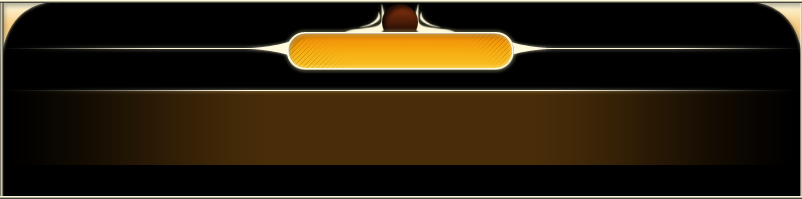
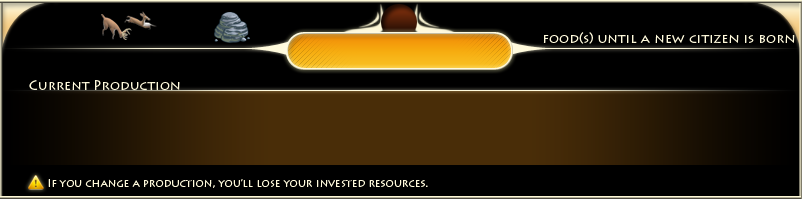
no more blurry image, all resources

diff --git a/Civilization/CivilizationWPF/GameWindow.xaml b/Civilization/CivilizationWPF/GameWindow.xaml
@@ -3,7 +3,7 @@
         xmlns:x="http://schemas.microsoft.com/winfx/2006/xaml"
         xmlns:local="clr-namespace:CivilizationWPF"
         xmlns:implementation="clr-namespace:Implementation;assembly=CivilizationLib"
-        Title="Civilization" Width="1024" Height="768" ResizeMode="NoResize">
+        Title="Civilization" Width="1008" Height="757" ResizeMode="NoResize">
     <Window.Resources>
         <Style x:Key="menu" TargetType="Button" BasedOn="{StaticResource {x:Static ToolBar.ButtonStyleKey}}">
             <Setter Property="Background" Value="{x:Null}"/>
@@ -89,25 +89,19 @@
             </Grid.ColumnDefinitions>
             <Grid.Background>
                 <ImageBrush ImageSource="./Resource/interface/top.png"/>
-            </Grid.Background>
-            <TextBlock Name="intro_turn" Grid.Column="0" Text="It's your turn," FontFamily="Lithos Pro" Foreground="#fffef8d7" FontSize="14" VerticalAlignment="Center" Margin="5,0,0,0"/>
-            <TextBlock Name="nameView" Grid.Column="1" Text="{Binding Path=Name}" FontFamily="Lithos Pro" Foreground="{Binding Path=Color}" FontSize="14" VerticalAlignment="Center" Margin="5,0,0,0"/>
-            <Image Grid.Column="2" Source="./Resource/interface/icons/civ.png" Height="16" Width="16"></Image>
-            <TextBlock Name="civilization" Grid.Column="3" Text="{Binding Path=Civilization}" FontFamily="Lithos Pro" Foreground="#fffef8d7" FontSize="14" VerticalAlignment="Center" Margin="5,0,0,0"/>
-            <Image Grid.Column="4" Source="./Resource/interface/icons/city.png" Height="24" Width="24"></Image>
-            <TextBlock Name="city_number" Grid.Column="5" Text="{Binding Path=CityNumber}" FontFamily="Lithos Pro" Foreground="#fffef8d7" FontSize="14" VerticalAlignment="Center" Margin="5,0,0,0"/>
-            <Image Grid.Column="6" Source="./Resource/interface/icons/teacher.png" Height="24" Width="24"></Image>
-            <TextBlock Name="teacher_number" Grid.Column="7" Text="{Binding Path=TeacherNumber}" FontFamily="Lithos Pro" Foreground="#fffef8d7" FontSize="14" VerticalAlignment="Center" Margin="5,0,0,0"/>
-            <Image Grid.Column="8" Source="./Resource/interface/icons/student.png" Height="24" Width="24"></Image>
-            <TextBlock Name="student_number" Grid.Column="9" Text="{Binding Path=StudentNumber}" FontFamily="Lithos Pro" Foreground="#fffef8d7" FontSize="14" VerticalAlignment="Center" Margin="5,0,0,0"/>
+            </Grid.Background> 
+            <TextBlock Grid.Column="1" Text="{Binding Path=Name}" FontFamily="Lithos Pro" Foreground="{Binding Path=Color}" FontSize="14" VerticalAlignment="Center" Margin="5,0,0,0"/>
+            <TextBlock Grid.Column="3" Text="{Binding Path=Civilization}" FontFamily="Lithos Pro" Foreground="#fffef8d7" FontSize="14" VerticalAlignment="Center" Margin="5,0,0,0"/>
+            <TextBlock Grid.Column="5" Text="{Binding Path=CityNumber}" FontFamily="Lithos Pro" Foreground="#fffef8d7" FontSize="14" VerticalAlignment="Center" Margin="5,0,0,0"/>
+            <TextBlock Grid.Column="7" Text="{Binding Path=TeacherNumber}" FontFamily="Lithos Pro" Foreground="#fffef8d7" FontSize="14" VerticalAlignment="Center" Margin="5,0,0,0"/>
+            <TextBlock Grid.Column="9" Text="{Binding Path=StudentNumber}" FontFamily="Lithos Pro" Foreground="#fffef8d7" FontSize="14" VerticalAlignment="Center" Margin="5,0,0,0"/>
             <Image Grid.Column="10" Source="{Binding Path=BossStatus}" Height="24" Width="24"></Image>
-            <TextBlock Grid.Column="12" Text="Turn" FontFamily="Lithos Pro" Foreground="#fffef8d7" FontSize="14" VerticalAlignment="Center"/>
             <TextBlock Name="turnsView" Grid.Column="13" Text="{Binding Path=Turns}" FontFamily="Lithos Pro" Foreground="#fffef8d7" FontSize="14" VerticalAlignment="Center"/>
             <Button Grid.Column="14" Click="endTurn" Content="End Turn" Style="{StaticResource menu}"/>
             <Button Grid.Column="15" Click="endGame" Content="Exit" Style="{StaticResource menu}"/>
         </Grid>
 
-        <Grid Grid.Row="2" Grid.Column="1" Name="field" Visibility="Visible">
+        <Grid Grid.Row="2" Grid.Column="1" Name="field" Visibility="Hidden">
             <Grid.Background>
                 <ImageBrush ImageSource="./Resource/interface/bottomRight/bottomField.png" TileMode="Tile" Stretch="None" Viewport="0,0,802,199" ViewportUnits="Absolute" AlignmentX="Left" AlignmentY="Top" ViewboxUnits="RelativeToBoundingBox"></ImageBrush>
             </Grid.Background>
@@ -132,7 +126,9 @@
                 <ColumnDefinition Width="127*" />
                 <ColumnDefinition Width="85*" />
             </Grid.ColumnDefinitions>
-            
+            <Grid.Background>
+                <ImageBrush ImageSource="./Resource/interface/bottomRight/bottomUnit.png" TileMode="Tile" Stretch="None" Viewport="0,0,802,199" ViewportUnits="Absolute" AlignmentX="Left" AlignmentY="Top" ViewboxUnits="RelativeToBoundingBox"></ImageBrush>
+            </Grid.Background>
             <TextBlock Text="{Binding Path=UnitType}" FontFamily="Lithos Pro" Foreground="#ff541c04" FontSize="20" VerticalAlignment="Center" HorizontalAlignment="Center" Grid.Column="4" Margin="146,36,133,30" Grid.RowSpan="2" />
             <TextBlock Text="{Binding Path=MovePoints}" Grid.Column="2" FontFamily="Lithos Pro" Foreground="#fffef9dc" FontSize="18" VerticalAlignment="Bottom" HorizontalAlignment="Right" Margin="0,0,0,11"/>
             <TextBlock Text="{Binding Path=HP}" Grid.Column="0" FontFamily="Lithos Pro" Foreground="#fffef9dc" FontSize="18" VerticalAlignment="Bottom" HorizontalAlignment="Right" Margin="0,0,4,13"/>
@@ -143,7 +139,7 @@
             <ToggleButton Name="attackAction" Content="Attack" FontFamily="Lithos Pro" FontSize="14" Foreground="#fffef9dc" Margin="231,25,4,58" Grid.Column="4" Grid.Row="2" Style="{StaticResource OnOffToggleImageStyle}" Height="26" Width="102"/>
         </Grid>
 
-        <Grid Grid.Row="2" Grid.Column="1" Name="city" Visibility="Hidden">
+        <Grid Grid.Row="2" Grid.Column="1" Name="city" Visibility="Visible">
             <Grid.RowDefinitions>
                 <RowDefinition Height="48*" />
                 <RowDefinition Height="42*" />
@@ -154,27 +150,23 @@
                 <ColumnDefinition Width="36*" />
                 <ColumnDefinition Width="84*" />
                 <ColumnDefinition Width="40*" />
-                <ColumnDefinition Width="279*" />
-                <ColumnDefinition Width="21*" />
+                <ColumnDefinition Width="273*" />
+                <ColumnDefinition Width="27*" />
                 <ColumnDefinition Width="249*" />
             </Grid.ColumnDefinitions>
             <Grid.Background>
                 <ImageBrush ImageSource="./Resource/interface/bottomRight/bottomCity.png" TileMode="Tile" Stretch="None" Viewport="0,0,802,199" ViewportUnits="Absolute" AlignmentX="Left" AlignmentY="Top" ViewboxUnits="RelativeToBoundingBox"></ImageBrush>
             </Grid.Background>
-            <TextBlock Text="food(s) until a new citizen is born" FontFamily="Lithos Pro" Foreground="#fffef9dc" FontSize="12" Grid.Column="6" VerticalAlignment="Bottom" HorizontalAlignment="Left" Margin="0,0,0,3" />
-            <TextBlock Text="{Binding Path=NeededFood}" FontFamily="Lithos Pro" Foreground="#fffef9dc" FontSize="20" Grid.Column="5" VerticalAlignment="Bottom" HorizontalAlignment="Center"/>
+            <TextBlock Text="{Binding Path=NeededFood}" FontFamily="Lithos Pro" Foreground="#fffef9dc" FontSize="20" Grid.Column="5" VerticalAlignment="Bottom" HorizontalAlignment="Center" Margin="0,0,12,0" />
             <TextBlock Text="{Binding Path=Population}" FontFamily="Lithos Pro" Foreground="#fffef9dc" FontSize="18" Grid.Column="4" Margin="133,9,120,18" VerticalAlignment="Center" HorizontalAlignment="Center"/>
             <TextBlock Text="{Binding Path=Name}" FontFamily="Lithos Pro" Foreground="#ff541c04" FontSize="20" Grid.Column="4" Margin="147,38,132,28" Grid.RowSpan="2" VerticalAlignment="Center" HorizontalAlignment="Center"/>
-            <Image Source="./Resource/interface/icons/food.png" Height="32" Width="32" VerticalAlignment="Bottom" HorizontalAlignment="Right" Margin="0,0,0,4" Grid.Column="1"></Image>
-            <TextBlock Text="{Binding Path=Food}" Grid.Column="0" FontFamily="Lithos Pro" Foreground="#fffef9dc" FontSize="18" VerticalAlignment="Bottom" HorizontalAlignment="Right" Margin="0,0,0,5"></TextBlock>
-            <Image Source="./Resource/interface/icons/iron.png" Height="38" Width="38" VerticalAlignment="Bottom" HorizontalAlignment="Right" Grid.Column="3"></Image>
-            <TextBlock Text="{Binding Path=Iron}" Grid.Column="2" FontFamily="Lithos Pro" Foreground="#fffef9dc" FontSize="18" VerticalAlignment="Bottom" HorizontalAlignment="Right" Margin="0,0,0,5"></TextBlock>
-            <TextBlock Text="Current Production" FontFamily="Lithos Pro" Foreground="#fffef9dc" FontSize="12" Grid.Row="1" Grid.ColumnSpan="3" VerticalAlignment="Bottom" HorizontalAlignment="Left" Margin="42,0,0,106" Grid.RowSpan="2"/>
+            <TextBlock Text="{Binding Path=Food}" FontFamily="Lithos Pro" Foreground="#fffef9dc" FontSize="18" VerticalAlignment="Bottom" HorizontalAlignment="Right" Margin="0,0,3,9"></TextBlock>
+            <TextBlock Text="{Binding Path=Iron}" Grid.Column="2" FontFamily="Lithos Pro" Foreground="#fffef9dc" FontSize="18" VerticalAlignment="Bottom" HorizontalAlignment="Right" Margin="0,0,3,8"></TextBlock>
             <ToggleButton Name="prodBossView" Click="prodBoss" Content="Boss" FontFamily="Lithos Pro" FontSize="14" Foreground="#fffef9dc" Margin="2,7,195,52" Grid.Column="2" Grid.Row="2" Grid.ColumnSpan="3" Style="{StaticResource OnOffToggleImageStyle}" Height="26" Width="102"/>
             <ToggleButton Name="prodTeacherView" Click="prodTeacher" Content="Teacher" FontFamily="Lithos Pro" FontSize="14" Foreground="#fffef9dc" Margin="87,7,73,52" Grid.Column="4" Grid.Row="2" Style="{StaticResource OnOffToggleImageStyle}" Height="26" Width="102"/>
             <ToggleButton Name="prodStudentView" Click="prodStudent" Content="Student" FontFamily="Lithos Pro" FontSize="14" Foreground="#fffef9dc" Margin="248,23,182,26" Grid.Column="4" Grid.Row="1" Grid.ColumnSpan="3" Grid.RowSpan="2" Style="{StaticResource OnOffToggleImageStyle}" Height="26" Width="102"/>
             <Image Name="timerBossView" Source="./Resource/interface/icons/timer.png" Height="19" Width="19" Grid.Column="3" Margin="5,53,16,37" Grid.Row="2" Visibility="Hidden"/>
-            <Image Name="timerTeacherView" Source="./Resource/interface/icons/timer.png" Height="19" Width="19" Grid.Column="4" Margin="125,53,135,38" Grid.Row="2" Visibility="Hidden"/>
+            <Image Name="timerTeacherView" Source="./Resource/interface/icons/timer.png" Height="19" Grid.Column="4" Margin="125,53,130,38" Grid.Row="2" Visibility="Hidden"/>
             <Image Name="timerStudentView" Source="./Resource/interface/icons/timer.png" Height="19" Width="19" Grid.Column="5" Margin="9,53,242,37" Grid.Row="2" Grid.ColumnSpan="2" Visibility="Hidden"/>
             <TextBlock Name="timerProdTeacher" Text="{Binding Path=CurrentProdTimer}" FontFamily="Lithos Pro" Foreground="#fffef9dc" FontSize="15" Grid.Column="4" Margin="145,54,113,37" VerticalAlignment="Center" HorizontalAlignment="Center" Grid.Row="2" Visibility="Hidden"/>
             <TextBlock Name="timerProdBoss" Text="{Binding Path=CurrentProdTimer}" FontFamily="Lithos Pro" Foreground="#fffef9dc" FontSize="15" Grid.Column="3" Margin="30,54,278,37" VerticalAlignment="Center" HorizontalAlignment="Center" Grid.Row="2" Visibility="Hidden" Grid.ColumnSpan="2"/>
@@ -183,9 +175,29 @@
 
         <Grid Grid.Row="2" Grid.Column="0" Name="action">
             <Grid.Background>
-                <ImageBrush ImageSource="./Resource/interface/bottomLeft/teacher.png"></ImageBrush>
+                <ImageBrush ImageSource="{Binding Path=UnitImage}" TileMode="Tile" Stretch="None" Viewport="0,0,802,199" ViewportUnits="Absolute" AlignmentX="Left" AlignmentY="Top" ViewboxUnits="RelativeToBoundingBox"/>
             </Grid.Background>
-            <Button Name="order" Click="newAction" Content="Units needs orders" VerticalAlignment="Top" FontFamily="Lithos Pro" FontSize="14" Foreground="Black" Margin="3,3,1,0">
+            <Button Name="orderUnit" Click="newUnitAction" Content="Units needs orders" VerticalAlignment="Top" FontFamily="Lithos Pro" FontSize="14" Foreground="Black" Margin="3,3,1,0" Visibility="Hidden">
+                <Button.Effect>
+                    <DropShadowEffect Direction="-90" Opacity="0.7"></DropShadowEffect>
+                </Button.Effect>
+                <Button.Template>
+                    <ControlTemplate TargetType="{x:Type Button}">
+                        <Grid>
+                            <Image Name="Normal" Source="./Resource/interface/bottomLeft/order1.png"/>
+                            <Image Name="Over" Source="./Resource/interface/bottomLeft/order2.png" Visibility="Hidden"/>
+                            <ContentPresenter Content="{TemplateBinding Property=ContentControl.Content}" VerticalAlignment="Center" HorizontalAlignment="Center" />
+                        </Grid>
+                        <ControlTemplate.Triggers>
+                            <Trigger Property="IsMouseOver" Value="True">
+                                <Setter TargetName="Normal" Property="Visibility" Value="Hidden"/>
+                                <Setter TargetName="Over" Property="Visibility" Value="Visible"/>
+                            </Trigger>
+                        </ControlTemplate.Triggers>
+                    </ControlTemplate>
+                </Button.Template>
+            </Button>
+            <Button Name="orderCity" Click="newCityAction" Content="A City needs orders" VerticalAlignment="Top" FontFamily="Lithos Pro" FontSize="14" Foreground="Black" Margin="3,3,1,0" Visibility="Visible">
                 <Button.Effect>
                     <DropShadowEffect Direction="-90" Opacity="0.7"></DropShadowEffect>
                 </Button.Effect>
